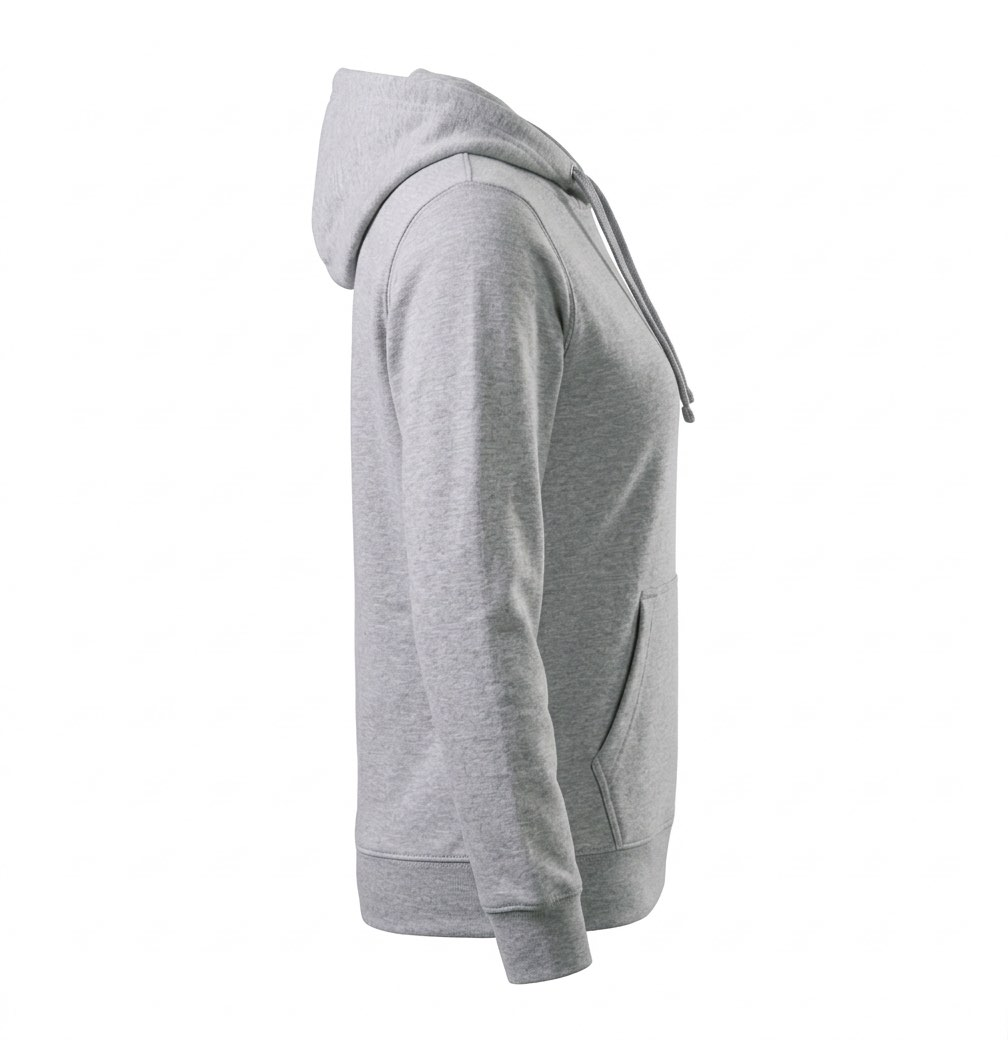
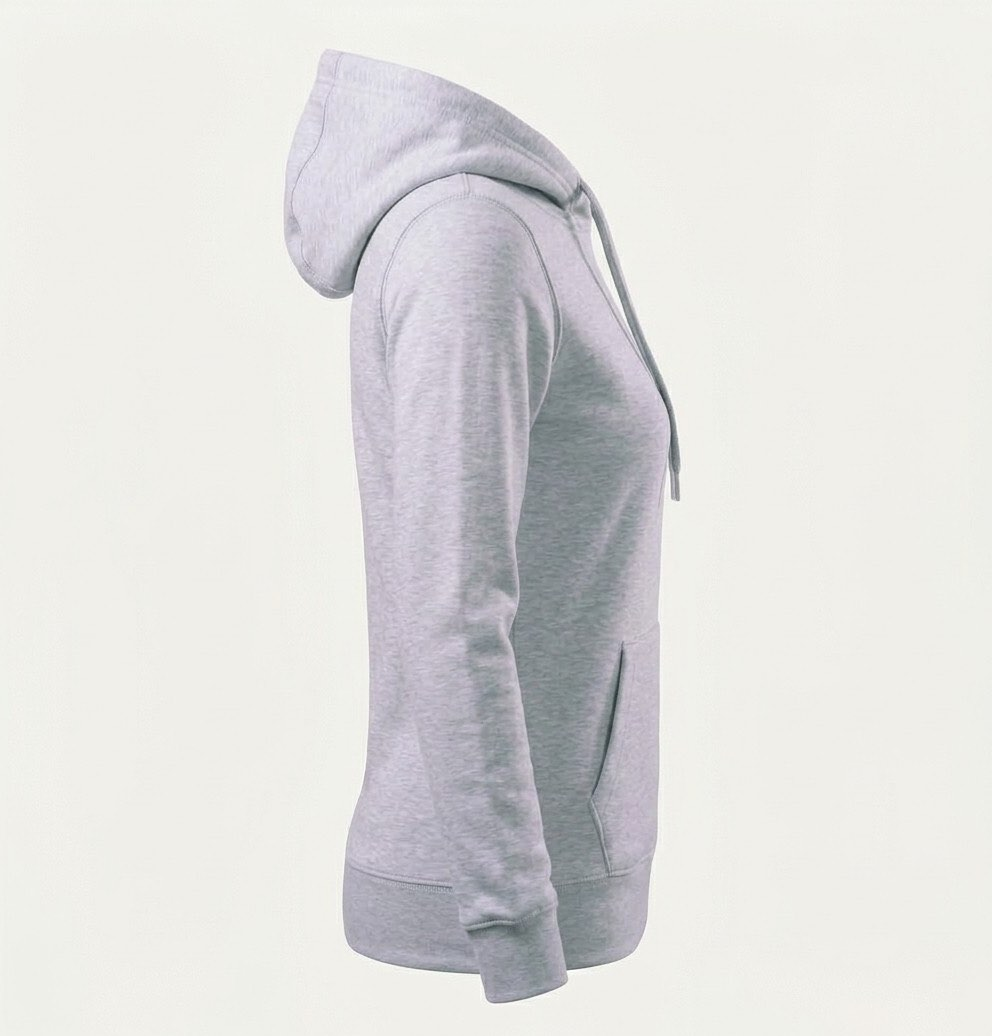
Dotacian Studio: nuevas fotos del hoodie de mujer

Changed region(s): [[0.2812, 0.0309, 0.6875, 0.9884]]

diff --git a/app/studio.html b/app/studio.html
@@ -4657,33 +4657,34 @@
         hoodieMujer: {
           garment: 'hoodie',
           options: { corte: 'mujer', cuello: 'capucha', manga: 'larga', cierre: 'ninguno', bolsillos: 'canguro' },
+          // Fondo crema con viñeta: se recorta un poco más abajo que en las demás fotos.
           views: {
             front: {
               src: '/assets/images/studio/hoodie_mujer_frente.jpg',
-              cmPerImage: 128,
-              bgMin: 240,
+              cmPerImage: 110,
+              bgMin: 229,
               logos: {
-                pechoIzq: { x: 0.625, y: 0.3 },
+                pechoIzq: { x: 0.645, y: 0.31 },
                 // Debajo de los cordones, para que el logo no quede encima de ellos.
-                pechoCentro: { x: 0.504, y: 0.515 }
+                pechoCentro: { x: 0.499, y: 0.566 }
               }
             },
             back: {
               src: '/assets/images/studio/hoodie_mujer_espalda.jpg',
-              cmPerImage: 128,
-              bgMin: 240,
-              logos: { espalda: { x: 0.508, y: 0.43 } }
+              cmPerImage: 110,
+              bgMin: 229,
+              logos: { espalda: { x: 0.499, y: 0.44 } }
             },
             right: {
               src: '/assets/images/studio/hoodie_mujer_lado_der.jpg',
-              cmPerImage: 128,
-              bgMin: 240,
+              cmPerImage: 110,
+              bgMin: 229,
               logos: {}
             },
             left: {
               src: '/assets/images/studio/hoodie_mujer_lado_izq.jpg',
-              cmPerImage: 128,
-              bgMin: 240,
+              cmPerImage: 110,
+              bgMin: 229,
               logos: {}
             }
           }

diff --git a/assets/js/studio-renders.js b/assets/js/studio-renders.js
@@ -4,7 +4,7 @@
 // navegador no soporta tantos visores). Las fotos se guardan en sessionStorage.
 (function () {
   // Cambia este valor cuando cambien los modelos 3D para regenerar las imágenes.
-  const RENDER_VERSION = '10';
+  const RENDER_VERSION = '11';
   const cache = {};
   let frame = null;
   let studioPromise = null;
